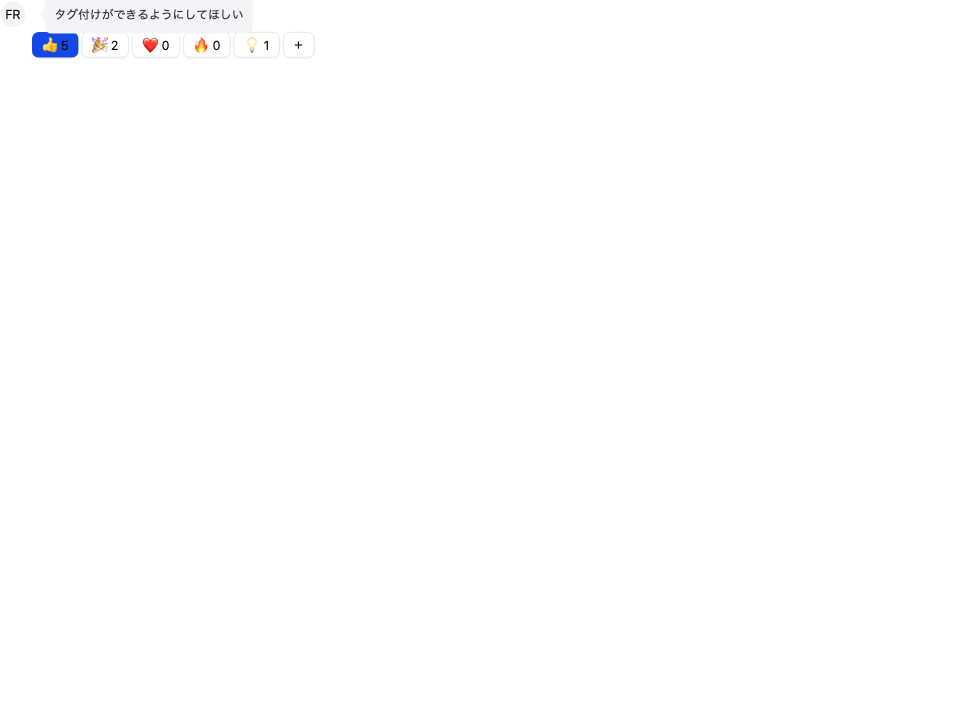
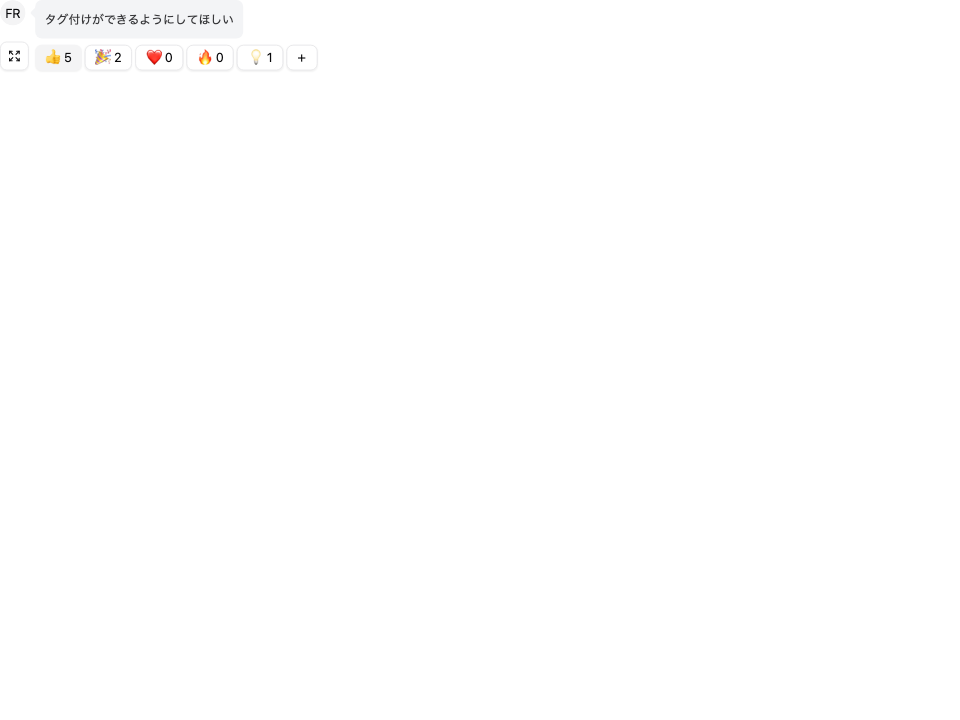
feat: update button variants and add new stories; enhance layout properties in stack component

Changed region(s): [[0.0, 0.0, 0.2812, 0.0917], [0.0, 0.0, 0.0312, 0.0306]]

diff --git a/packages/ui/src/components/domain/request-card/request-card.tsx b/packages/ui/src/components/domain/request-card/request-card.tsx
@@ -1,5 +1,7 @@
 import type { ComponentProps, ReactNode } from "react";
 
+import { Expand } from "lucide-react";
+
 import { Box, HStack, VStack } from "../../common/layout";
 import {
   Avatar,
@@ -81,21 +83,22 @@ export const RequestCard = ({
   const emojiMenuId = `${idBase}-emoji-menu`;
 
   return (
-    <HStack align="baseline" gap="sm">
-      <Avatar>
-        <AvatarImage alt={avatar.alt} src={avatar.src}></AvatarImage>
-        <AvatarFallback>{avatar.fallbackText}</AvatarFallback>
-      </Avatar>
-      <VStack gap="xs">
+    <HStack align="start" gap="sm">
+      <VStack gap="sm" justify="between" self="stretch">
+        <Avatar>
+          <AvatarImage alt={avatar.alt} src={avatar.src}></AvatarImage>
+          <AvatarFallback>{avatar.fallbackText}</AvatarFallback>
+        </Avatar>
         <Dialog>
           <DialogTrigger asChild>
             <Button
               aria-controls={dialogContentId}
               aria-label={dialogTriggerLabel}
+              size="icon"
               type="button"
-              variant="ghost"
+              variant="outline"
             >
-              <BubbleText text={text} />
+              <Expand />
             </Button>
           </DialogTrigger>
           <DialogContent id={dialogContentId}>
@@ -145,6 +148,9 @@ export const RequestCard = ({
             </VStack>
           </DialogContent>
         </Dialog>
+      </VStack>
+      <VStack gap="sm">
+        <BubbleText text={text} />
         <HStack gap="xs">
           {reactions?.map((reaction, index) => (
             <EmojiReaction

diff --git a/packages/ui/src/lib/style-props.ts b/packages/ui/src/lib/style-props.ts
@@ -59,6 +59,69 @@ const radius = cva("", {
 
 const spacing = cva("", {
   variants: {
+    m: {
+      "2xl": "m-8",
+      lg: "m-4",
+      md: "m-3",
+      none: "m-0",
+      sm: "m-2",
+      xl: "m-6",
+      xs: "m-1",
+    },
+    mb: {
+      "2xl": "mb-8",
+      lg: "mb-4",
+      md: "mb-3",
+      none: "mb-0",
+      sm: "mb-2",
+      xl: "mb-6",
+      xs: "mb-1",
+    },
+    ml: {
+      "2xl": "ml-8",
+      lg: "ml-4",
+      md: "ml-3",
+      none: "ml-0",
+      sm: "ml-2",
+      xl: "ml-6",
+      xs: "ml-1",
+    },
+    mr: {
+      "2xl": "mr-8",
+      lg: "mr-4",
+      md: "mr-3",
+      none: "mr-0",
+      sm: "mr-2",
+      xl: "mr-6",
+      xs: "mr-1",
+    },
+    mt: {
+      "2xl": "mt-8",
+      lg: "mt-4",
+      md: "mt-3",
+      none: "mt-0",
+      sm: "mt-2",
+      xl: "mt-6",
+      xs: "mt-1",
+    },
+    mx: {
+      "2xl": "mx-8",
+      lg: "mx-4",
+      md: "mx-3",
+      none: "mx-0",
+      sm: "mx-2",
+      xl: "mx-6",
+      xs: "mx-1",
+    },
+    my: {
+      "2xl": "my-8",
+      lg: "my-4",
+      md: "my-3",
+      none: "my-0",
+      sm: "my-2",
+      xl: "my-6",
+      xs: "my-1",
+    },
     p: {
       "2xl": "p-8",
       lg: "p-4",
@@ -150,6 +213,7 @@ const layout = cva("", {
     },
     top: {
       "1/2": "top-1/2",
+      "4": "top-4",
     },
     translateY: {
       "-1/2": "-translate-y-1/2",
@@ -222,6 +286,13 @@ const stylePropKeys = [
   "pr",
   "pb",
   "pl",
+  "m",
+  "mx",
+  "my",
+  "mt",
+  "mr",
+  "mb",
+  "ml",
   "radius",
   "position",
   "w",

diff --git a/packages/ui/src/components/common/shadcn/button/button.stories.tsx b/packages/ui/src/components/common/shadcn/button/button.stories.tsx
@@ -3,7 +3,7 @@ import type { Meta, StoryObj } from "@storybook/nextjs-vite";
 import { Button } from "./button";
 
 const meta = {
-  args: { children: "Click Me", size: "default", variant: "default" },
+  args: { children: "Button", size: "default", variant: "default" },
   component: Button,
   title: "Common/Shadcn/Button",
 } satisfies Meta<typeof Button>;
@@ -15,14 +15,30 @@ export const Default: Story = {};
 
 export const Destructive: Story = {
   args: {
-    children: "Delete",
     variant: "destructive",
+  },
+};
+
+export const Ghost: Story = {
+  args: {
+    variant: "ghost",
+  },
+};
+
+export const Link: Story = {
+  args: {
+    variant: "link",
   },
 };
 
 export const Outline: Story = {
   args: {
-    children: "Outline",
     variant: "outline",
+  },
+};
+
+export const Secondary: Story = {
+  args: {
+    variant: "secondary",
   },
 };

diff --git a/packages/ui/src/components/common/layout/stack/stack.tsx b/packages/ui/src/components/common/layout/stack/stack.tsx
@@ -14,6 +14,7 @@ const stackVariants = cva("flex", {
     gap: "md",
     inline: false,
     justify: "start",
+    self: "stretch",
     wrap: "nowrap",
   },
   variants: {
@@ -48,6 +49,13 @@ const stackVariants = cva("flex", {
       end: "justify-end",
       evenly: "justify-evenly",
       start: "justify-start",
+    },
+    self: {
+      baseline: "self-baseline",
+      center: "self-center",
+      end: "self-end",
+      start: "self-start",
+      stretch: "self-stretch",
     },
     wrap: {
       nowrap: "flex-nowrap",

diff --git a/packages/ui/src/components/domain/emoji-reaction/emoji-reaction.tsx b/packages/ui/src/components/domain/emoji-reaction/emoji-reaction.tsx
@@ -15,7 +15,7 @@ export const EmojiReaction = ({ active, count, emoji, onClick }: Props) => {
       aria-pressed={active}
       onClick={onClick}
       size="sm"
-      variant={active ? "default" : "outline"}
+      variant={active ? "secondary" : "outline"}
     >
       <HStack caret="transparent" gap="xs">
         <Text size="md">{emoji}</Text>

diff --git a/packages/ui/src/components/domain/bubble-text/bubble-text.tsx b/packages/ui/src/components/domain/bubble-text/bubble-text.tsx
@@ -17,7 +17,7 @@ export const BubbleText = ({ text }: Props) => {
         position="absolute"
         radius="xs"
         rotate="45"
-        top="1/2"
+        top="4"
         translateY="-1/2"
         w="3"
       />

diff --git a/packages/ui/src/components/domain/emoji-reaction/emoji-reaction.stories.tsx b/packages/ui/src/components/domain/emoji-reaction/emoji-reaction.stories.tsx
@@ -15,3 +15,9 @@ export default meta;
 type Story = StoryObj<typeof meta>;
 
 export const Default: Story = {};
+
+export const Active: Story = {
+  args: {
+    active: true,
+  },
+};
